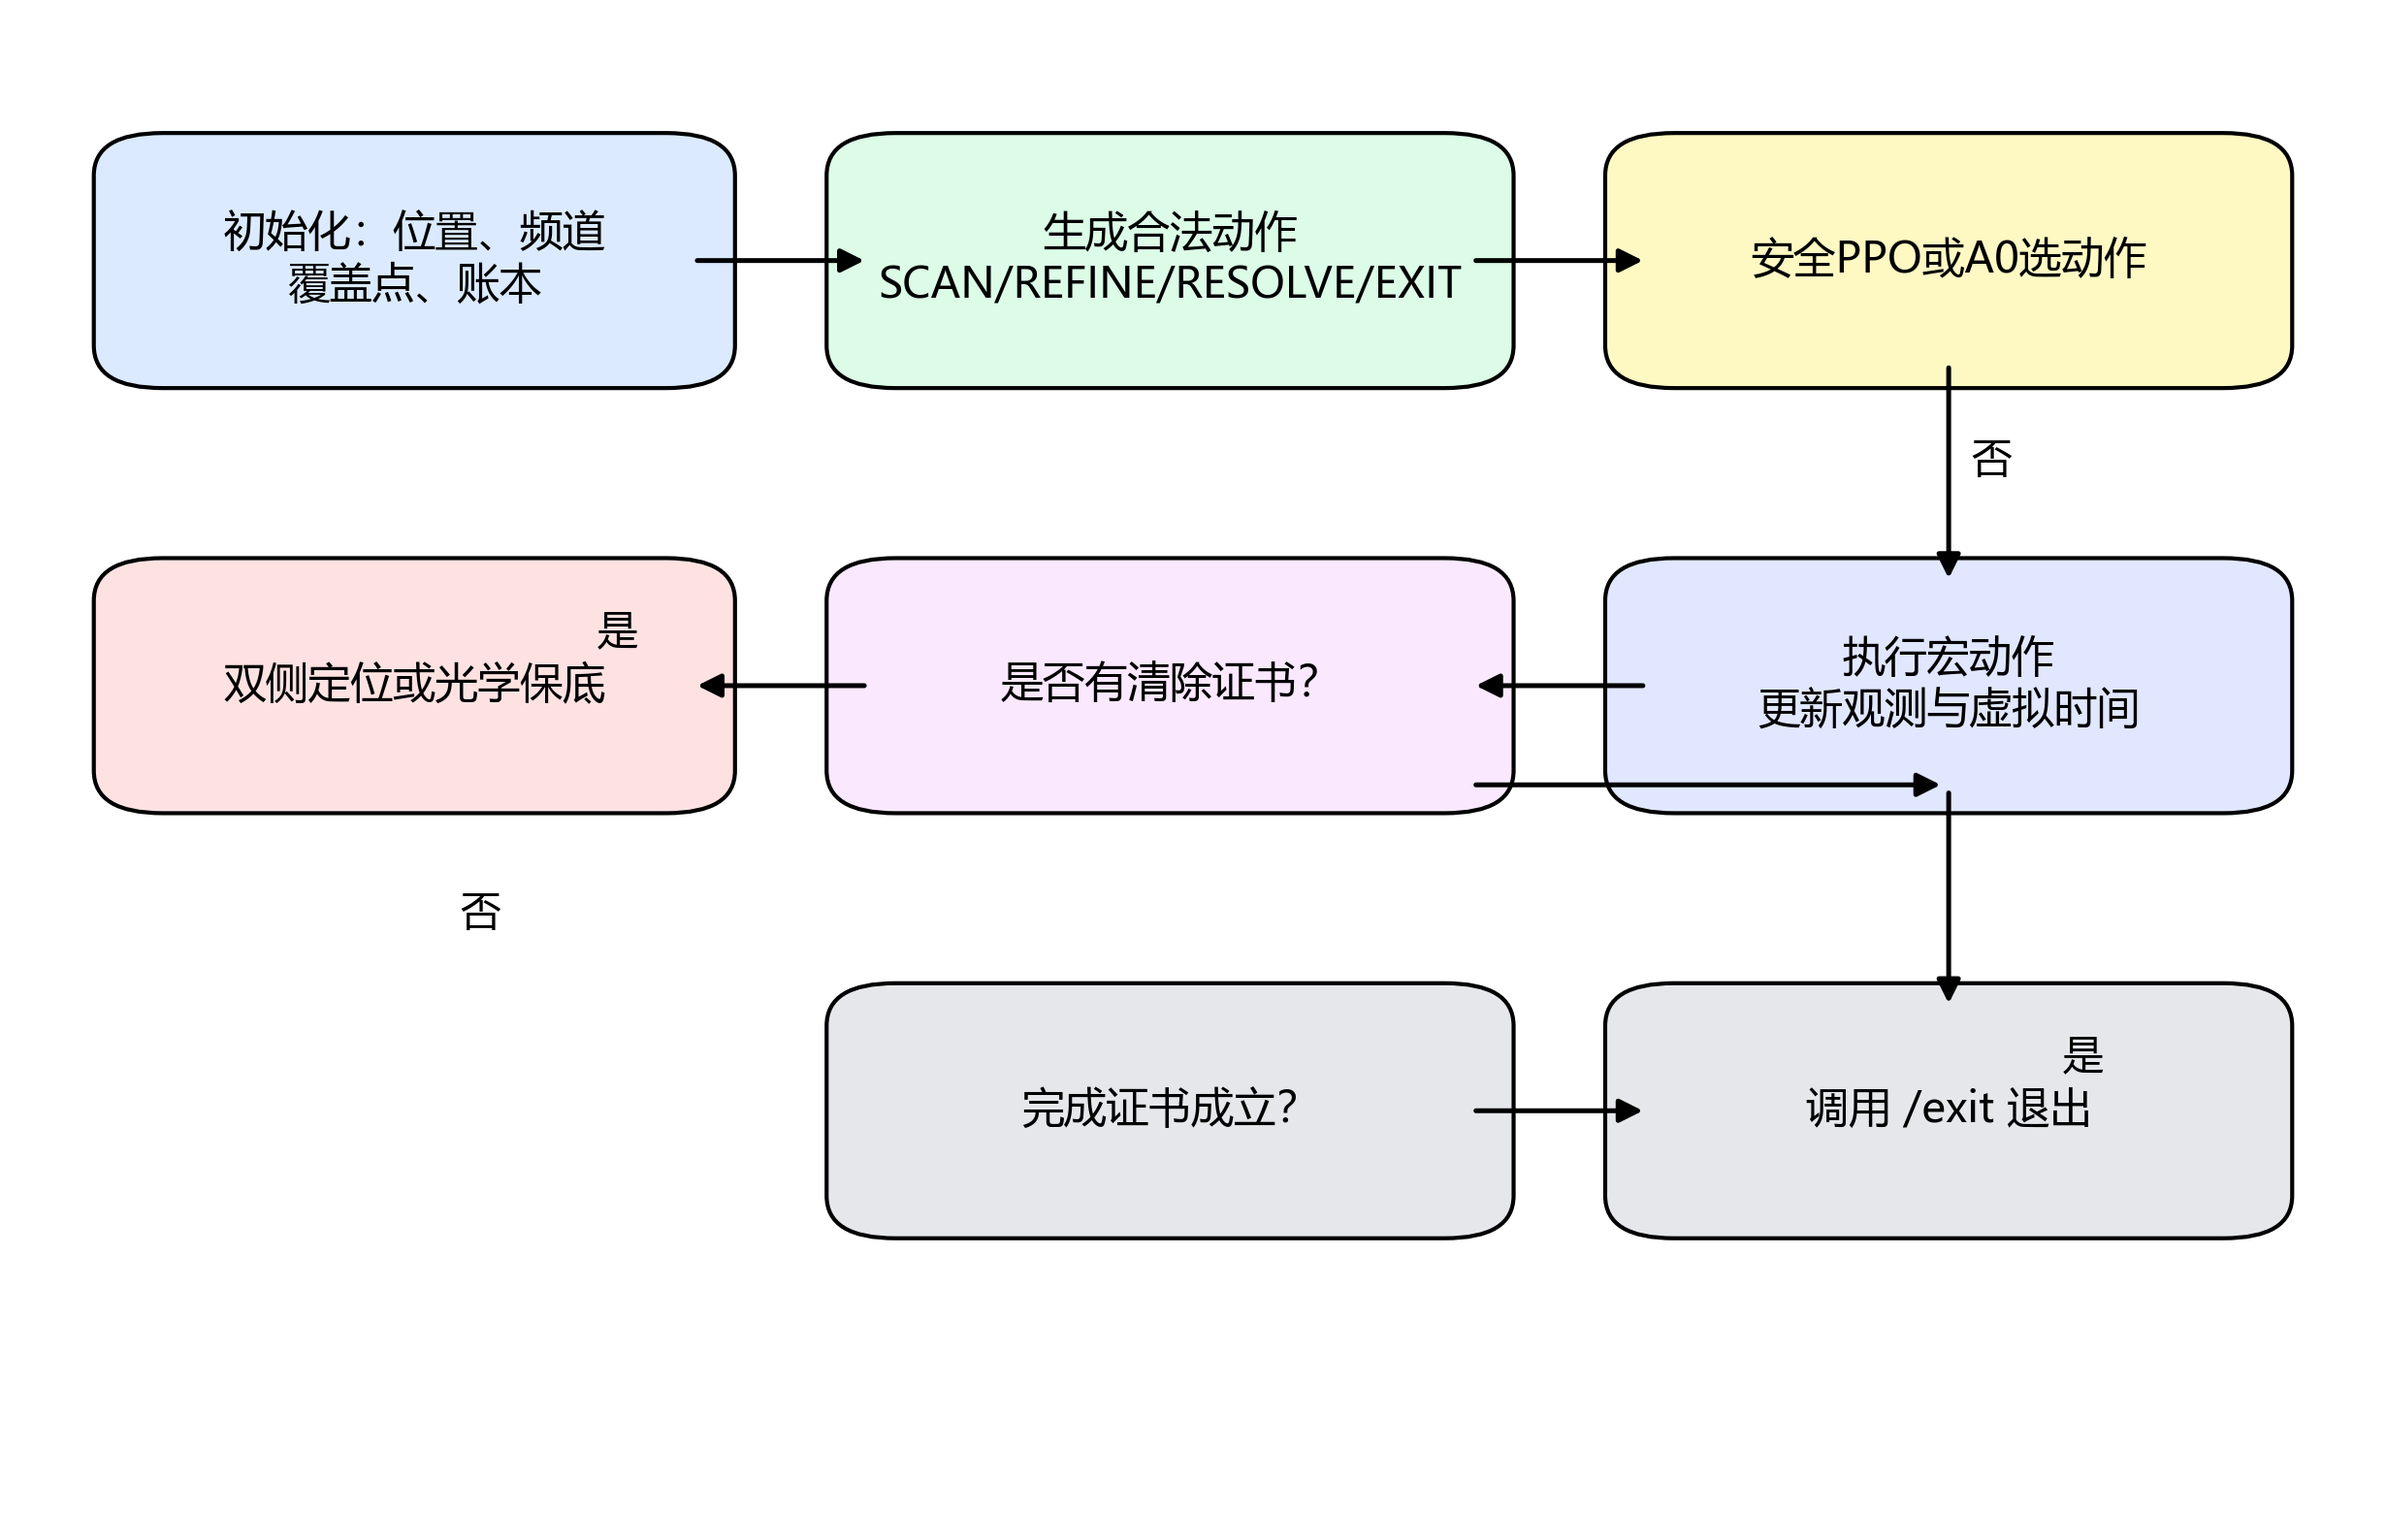
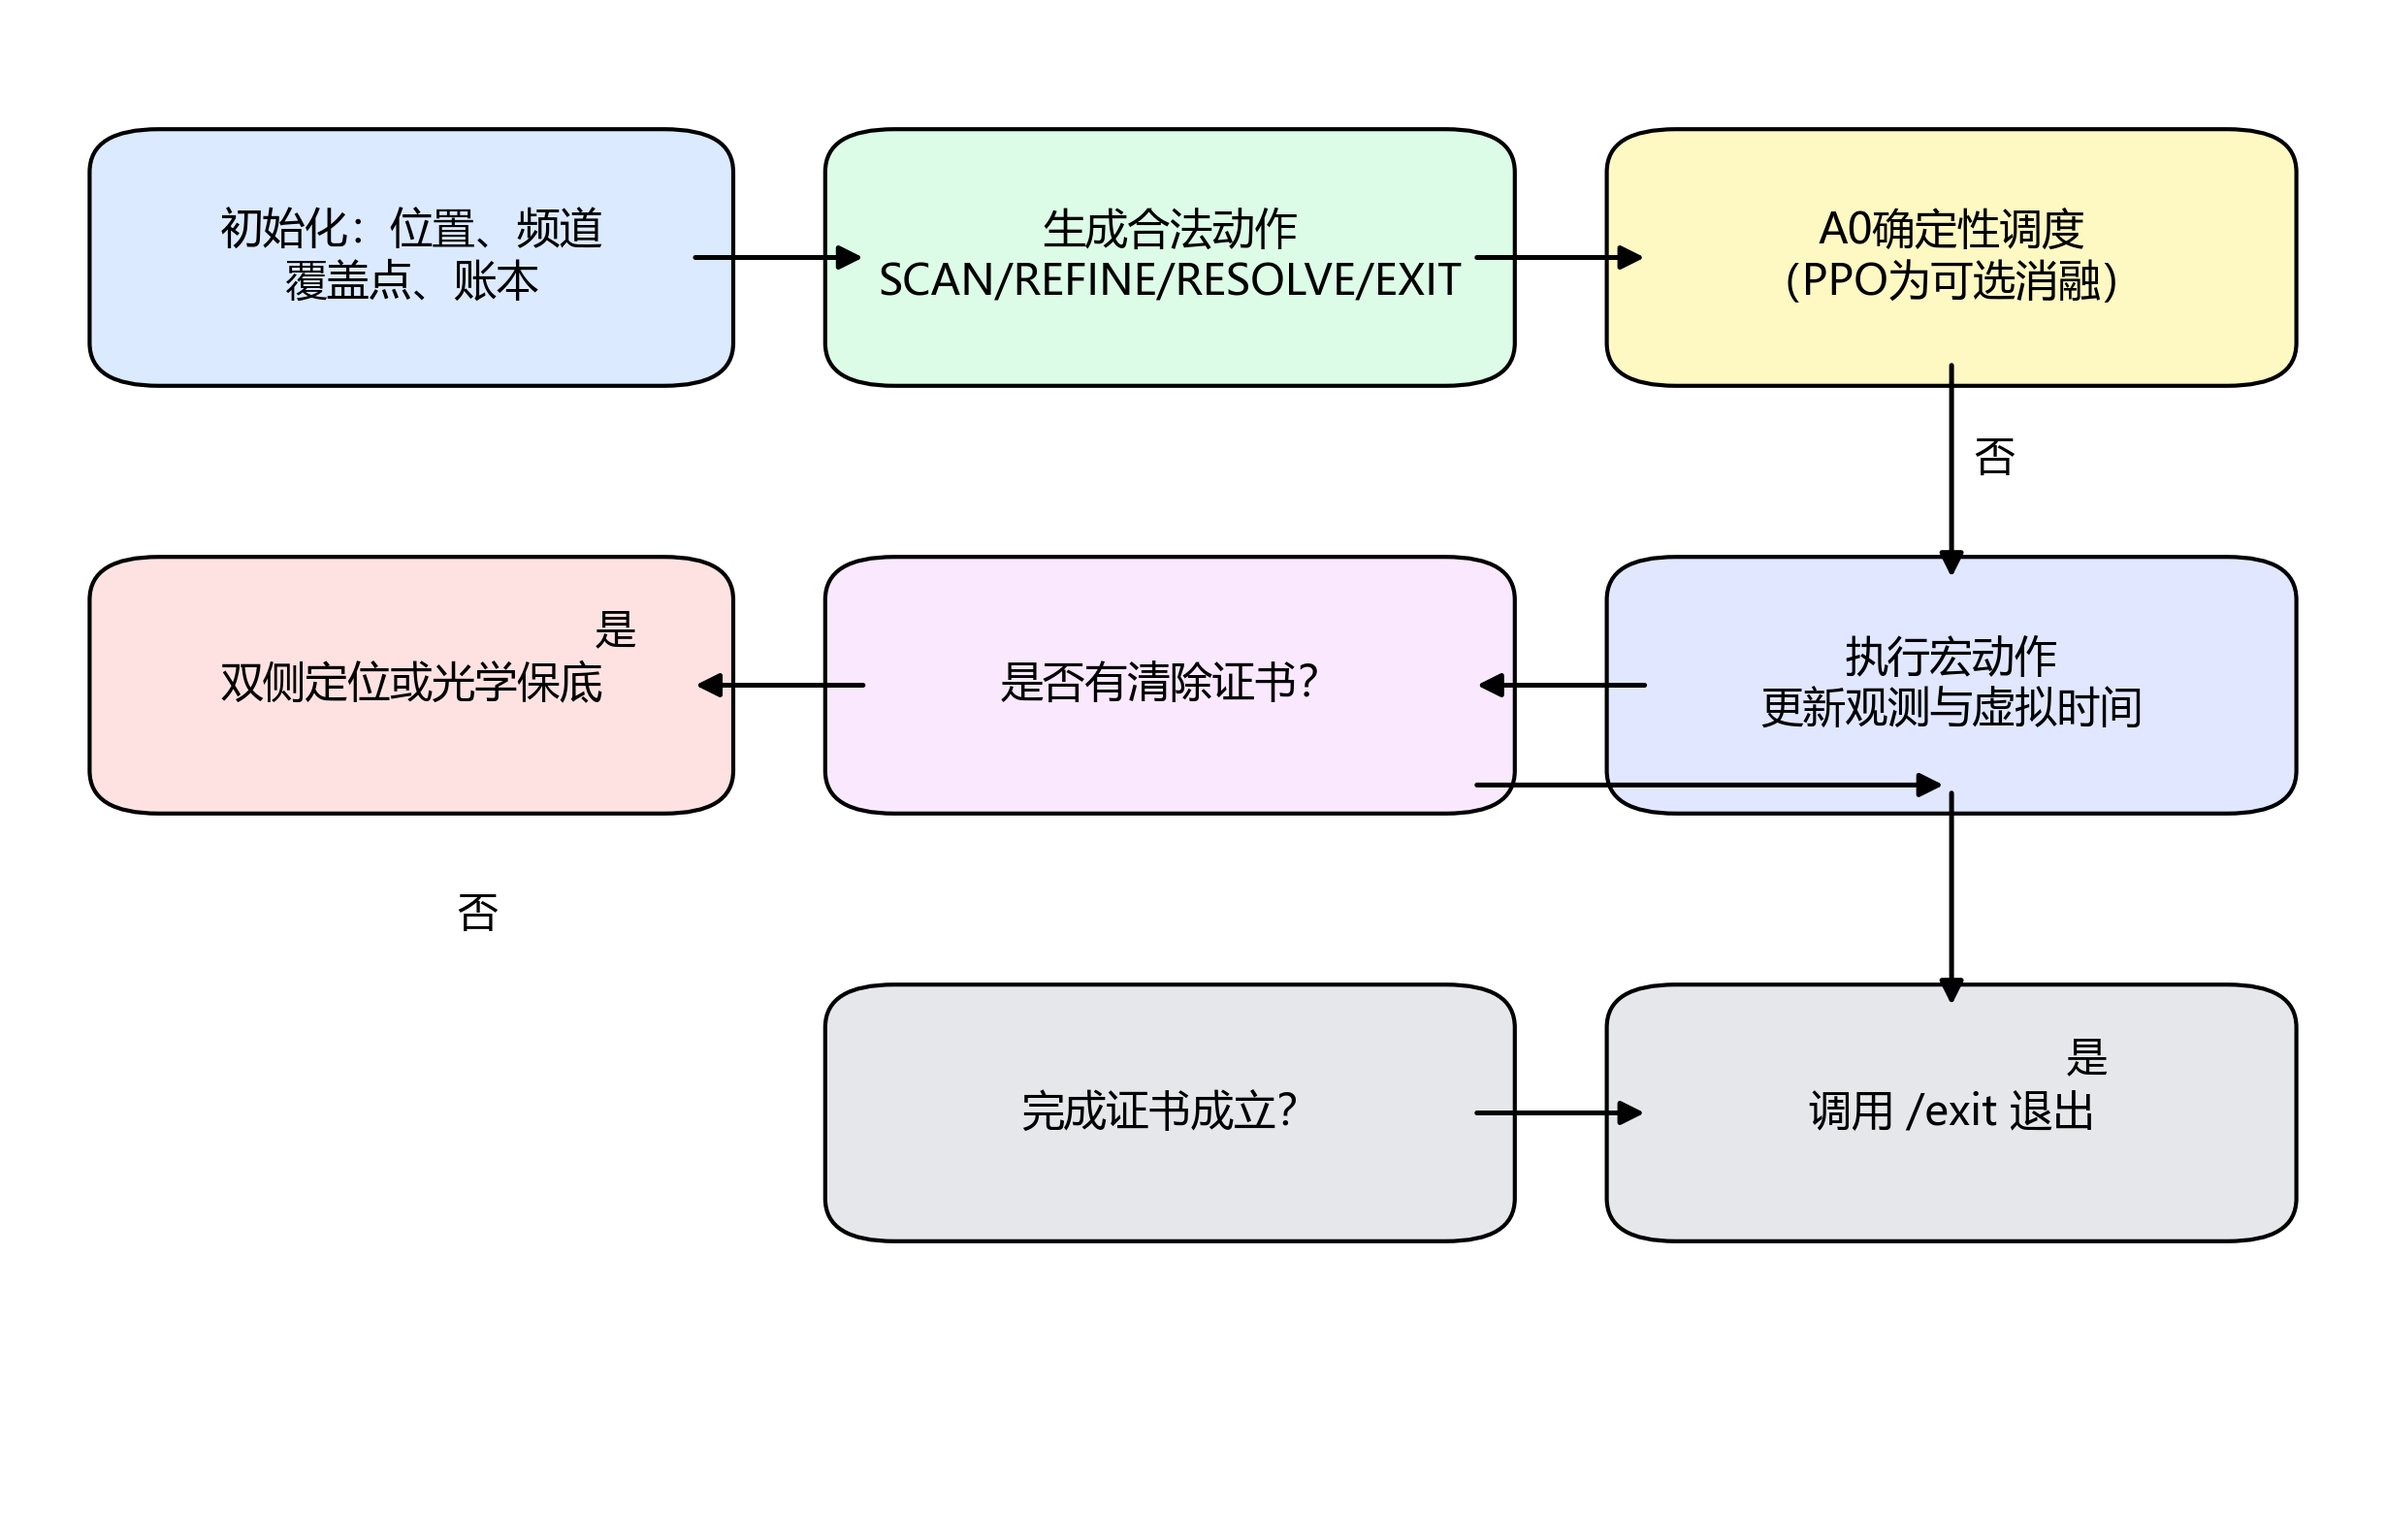
同步几何主动搜索更名后的终稿、流程图与提交包

diff --git a/scripts/make_algorithm_flow_v2.py b/scripts/make_algorithm_flow_v2.py
@@ -1,0 +1,29 @@
+from pathlib import Path
+import matplotlib
+matplotlib.use('Agg')
+import matplotlib.pyplot as plt
+from matplotlib.patches import FancyBboxPatch, FancyArrowPatch
+OUT=Path(r'D:\数学建模\B_RL\results\figures')
+TGT=Path(r'D:\数学建模\数学建模B2-RL\论文\figures')
+plt.rcParams['font.sans-serif']=['Microsoft YaHei','SimHei']; plt.rcParams['axes.unicode_minus']=False
+fig,ax=plt.subplots(figsize=(8.2,5.2)); ax.set_xlim(0,1); ax.set_ylim(0,1); ax.axis('off')
+def box(x,y,w,h,text,fc):
+    ax.add_patch(FancyBboxPatch((x,y),w,h,boxstyle='round,pad=0.02,rounding_size=0.03',fc=fc,ec='black',lw=1.0))
+    ax.text(x+w/2,y+h/2,text,ha='center',va='center',fontsize=10.5)
+def arrow(x1,y1,x2,y2):
+    ax.add_patch(FancyArrowPatch((x1,y1),(x2,y2),arrowstyle='-|>',mutation_scale=12,lw=1.2,color='black'))
+box(0.04,0.78,0.24,0.14,'初始化：位置、频道\n覆盖点、账本','#dbeafe')
+box(0.36,0.78,0.26,0.14,'生成合法动作\nSCAN/REFINE/RESOLVE/EXIT','#dcfce7')
+box(0.70,0.78,0.26,0.14,'A0确定性调度\n（PPO为可选消融）','#fef9c3')
+box(0.70,0.48,0.26,0.14,'执行宏动作\n更新观测与虚拟时间','#e0e7ff')
+box(0.36,0.48,0.26,0.14,'是否有清除证书？','#fae8ff')
+box(0.04,0.48,0.24,0.14,'双侧定位或光学保底','#fee2e2')
+box(0.36,0.18,0.26,0.14,'完成证书成立？','#e5e7eb')
+box(0.70,0.18,0.26,0.14,'调用 /exit 退出','#e5e7eb')
+arrow(0.28,0.85,0.36,0.85); arrow(0.62,0.85,0.70,0.85)
+arrow(0.83,0.78,0.83,0.62); arrow(0.70,0.55,0.62,0.55); arrow(0.36,0.55,0.28,0.55)
+arrow(0.62,0.48,0.83,0.48); arrow(0.83,0.48,0.83,0.32); arrow(0.62,0.25,0.70,0.25)
+ax.text(0.18,0.38,'否',fontsize=10); ax.text(0.24,0.58,'是',fontsize=10); ax.text(0.84,0.70,'否',fontsize=10); ax.text(0.88,0.28,'是',fontsize=10)
+fig.tight_layout(); fig.savefig(OUT/'paper_algorithm_flow.png',dpi=300); 
+fig.savefig(TGT/'paper_algorithm_flow.png',dpi=300); plt.close(fig)
+print('flow updated')

diff --git a/final_submission/论文合规自检表.md b/final_submission/论文合规自检表.md
@@ -13,7 +13,7 @@
 
 | 检查点组 | 要求 | 落实情况 |
 | --- | --- | --- |
-| B01-B08 | A4、页边距、摘要页、正文起始、页码、无目录、正文≤30页 | A4，页边距2.8 cm，页脚居中阿拉伯页码从摘要页1连续编号，无目录，正文22页，含参考文献与附录共36页 |
+| B01-B08 | A4、页边距、摘要页、正文起始、页码、无目录、正文≤30页 | A4，页边距2.8 cm，页脚居中阿拉伯页码从摘要页1连续编号，无目录，正文23页，含参考文献与附录共37页 |
 | B09-B12 | 各问篇幅与难度匹配、参考文献和附录另起页 | 问题3、4篇幅最大，与题目分值一致；参考文献和附录A均另起页 |
 
 ## 三、标题与模型内容

diff --git a/final_submission/README.md b/final_submission/README.md
@@ -9,7 +9,7 @@
 - `B题_方案B_几何保证主动搜索_论文稿_匿名终稿.docx` / `.pdf`（根目录副本）
 - `B题_方案B_几何保证主动搜索_论文稿.docx` / `.pdf`（上述匿名终稿的规范文件名副本）
 
-论文摘要页为第1页且不跨页，正文从第2页开始；正文主要求解约22页，全文含代码附录共36页。全文已匿名化并清理作者、公司、标题和XMP元数据。
+论文摘要页为第1页且不跨页，正文从第2页开始；正文主要求解约23页，全文含代码附录共37页。全文已匿名化并清理作者、公司、标题和XMP元数据。
 
 ## 目录结构
 
